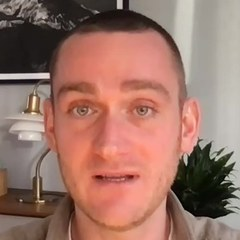
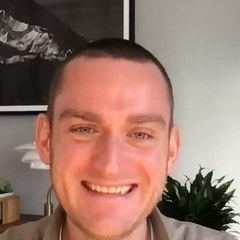
New Brandon photo with soft background, smiling Philip still, smaller play button in the on-the-fence row
Claude-Session: https://claude.ai/code/session_019JSQQoEFRUbrFzpqZ1j5LB

diff --git a/src/components/sections/MoreFromFounders.tsx b/src/components/sections/MoreFromFounders.tsx
@@ -1,6 +1,6 @@
 import { useState, useRef } from "react";
 import biancaCover from "@/assets/testimonials/bianca-polizzi-founder-polizzi-media.png";
-import brandonCover from "@/assets/testimonials/brandon-hadwin-founder-healingwithbrandon.png";
+import brandonCover from "@/assets/testimonials/brandon-cover.jpg";
 import jessicaCover from "@/assets/testimonials/jessica-rainey-founder-wildflower-woman.png";
 import sarahPhoto from "@/assets/testimonials/sarah-montgomery-founder-infyos.png";
 import rudiPhoto from "@/assets/testimonials/rudi-adigbli-founder-reethink.png";
@@ -18,9 +18,9 @@ export const videoCards = [
   { name: "Sabrina\nKennedy", company: "Singer, songwriter and actress", localVideo: "/videos/sabrina-testimonial-v2.mp4", poster: "/videos/sabrina-testimonial-poster.jpg", cover: sabrinaCover },
   { name: "Giacomo\nGallazzi", company: "Education podcast host", localVideo: "/videos/giacomo-testimonial-v2.mp4", poster: "/videos/giacomo-testimonial-poster.jpg", cover: giacomoCover },
   { name: "Galeen\nMegerditchian", company: "Paid media and brand marketing manager, London", localVideo: "/videos/galeen-testimonial-v2.mp4", poster: "/videos/galeen-testimonial-v2-poster.jpg", cover: galeenCover },
-  { name: "Philip\nChristiansen", company: "Hypnotist, Copenhagen", localVideo: "/videos/philip-testimonial-v2.mp4", poster: "/videos/philip-testimonial-v2-poster.jpg", cover: philipCover },
+  { name: "Philip\nChristiansen", company: "Hypnotist, Copenhagen", localVideo: "/videos/philip-testimonial-v2.mp4", poster: "/videos/philip-testimonial-v3-poster.jpg", cover: philipCover },
   { name: "Bianca\nPolizzi", company: "Polizzi Media", localVideo: "/videos/bianca-testimonial.mp4", poster: "/videos/bianca-testimonial-poster.jpg", cover: biancaCover },
-  { name: "Brandon\nHadwin", company: "HealingwithBrandon", localVideo: "/videos/brandon-testimonial.mp4", poster: "/videos/brandon-testimonial-poster.jpg", cover: brandonCover },
+  { name: "Brandon\nHadwin", company: "HealingwithBrandon", localVideo: "/videos/brandon-testimonial.mp4", poster: "/videos/brandon-testimonial-v2-poster.jpg", cover: brandonCover },
   { name: "Jessica\nRainey", company: "Wildflower Woman", localVideo: "/videos/jessica-testimonial.mp4", poster: "/videos/jessica-testimonial-poster.jpg", cover: jessicaCover },
   { name: "Alexandra\nFeldman", company: "Of The Islands", localVideo: "/videos/alexandra-testimonial.mp4", poster: "/videos/alexandra-testimonial-poster.jpg", cover: alexandraCover },
 ];
@@ -76,7 +76,7 @@ const quoteCards = [
   },
 ];
 
-export const VideoCard = ({ name, company, vimeoId, localVideo, poster, cover }: { name: string; company: string; vimeoId?: string; localVideo?: string; poster?: string; cover: string }) => {
+export const VideoCard = ({ name, company, vimeoId, localVideo, poster, cover, compact = false }: { name: string; company: string; vimeoId?: string; localVideo?: string; poster?: string; cover: string; compact?: boolean }) => {
   const [playing, setPlaying] = useState(false);
   const videoRef = useRef<HTMLVideoElement>(null);
 
@@ -124,7 +124,7 @@ export const VideoCard = ({ name, company, vimeoId, localVideo, poster, cover }:
           </div>
           {/* Large centered Monad-style play button */}
           <div className="absolute inset-0 z-[3] flex items-center justify-center pointer-events-none">
-            <div className="relative w-20 h-20 md:w-24 md:h-24 transition-transform duration-300 group-hover:scale-110">
+            <div className={`relative ${compact ? "w-14 h-14 md:w-16 md:h-16" : "w-20 h-20 md:w-24 md:h-24"} transition-transform duration-300 group-hover:scale-110`}>
               <svg viewBox="0 0 120 120" className="w-full h-full" aria-hidden="true">
                 <circle cx="60" cy="60" r="50" fill="rgba(255,255,255,0.18)" stroke="white" strokeWidth="3.5" />
                 <polygon points="50,42 82,60 50,78" fill="white" />

diff --git a/src/pages/Apply.tsx b/src/pages/Apply.tsx
@@ -8,7 +8,7 @@ import { Textarea } from "@/components/ui/textarea";
 import usePageMeta from "@/hooks/usePageMeta";
 import { supabase } from "@/integrations/supabase/client";
 import type { TablesInsert } from "@/integrations/supabase/types";
-import brandonPhoto from "@/assets/testimonials/brandon-hadwin-founder-healingwithbrandon.png";
+import brandonPhoto from "@/assets/testimonials/brandon-cover.jpg";
 import alexandraPhoto from "@/assets/testimonials/alexandra-feldman-founder-of-the-islands.png";
 import biancaPhoto from "@/assets/testimonials/bianca-polizzi-founder-polizzi-media.png";
 import jessicaPhoto from "@/assets/testimonials/jessica-rainey-founder-wildflower-woman.png";
@@ -118,7 +118,7 @@ function ItemList({ items, positive, negativeRed = false }: { items: string[]; p
 const videoStories = cases.filter((story) => story.photo);
 const textStories = cases.filter((story) => !story.photo);
 const testimonialVideos: Record<string, { src: string; poster: string }> = {
-  "Brandon Hadwin": { src: "/videos/brandon-testimonial.mp4", poster: "/videos/brandon-testimonial-poster.jpg" },
+  "Brandon Hadwin": { src: "/videos/brandon-testimonial.mp4", poster: "/videos/brandon-testimonial-v2-poster.jpg" },
   "Alexandra Feldman": { src: "/videos/alexandra-testimonial.mp4", poster: "/videos/alexandra-testimonial-poster.jpg" },
   "Jessica Rainey": { src: "/videos/jessica-testimonial.mp4", poster: "/videos/jessica-testimonial-poster.jpg" },
 };

diff --git a/src/components/sections/Hero.tsx b/src/components/sections/Hero.tsx
@@ -1,6 +1,6 @@
 import rudiAvatar from "@/assets/testimonials/rudi-adigbli-founder-reethink.png";
 import jessicaAvatar from "@/assets/testimonials/jessica-rainey-founder-wildflower-woman.png";
-import brandonAvatar from "@/assets/testimonials/brandon-hadwin-founder-healingwithbrandon.png";
+import brandonAvatar from "@/assets/testimonials/brandon-cover.jpg";
 import ellaAvatar from "@/assets/testimonials/ella-cane-founder.png";
 import alexandraAvatar from "@/assets/testimonials/alexandra-feldman-founder-of-the-islands.png";
 import AnimatedFounderCount from "@/components/AnimatedFounderCount";

diff --git a/src/pages/About.tsx b/src/pages/About.tsx
@@ -10,7 +10,7 @@ import {
   CarouselNext,
   CarouselPrevious,
 } from "@/components/ui/carousel";
-import brandonCover from "@/assets/testimonials/brandon-hadwin-founder-healingwithbrandon.png";
+import brandonCover from "@/assets/testimonials/brandon-cover.jpg";
 import jessicaCover from "@/assets/testimonials/jessica-rainey-founder-wildflower-woman.png";
 import backstoryPhoto from "@/assets/backstory-sidsel.jpg";
 import LineageSection from "@/components/sections/about/LineageSection";

diff --git a/src/components/sections/OnTheFence.tsx b/src/components/sections/OnTheFence.tsx
@@ -23,7 +23,7 @@ const OnTheFence = () => (
       </p>
       <div className="mt-12 grid grid-cols-1 sm:grid-cols-2 lg:grid-cols-4 gap-[18px]">
         {fenceCards.map((c) => (
-          <VideoCard key={c.localVideo} {...c} />
+          <VideoCard key={c.localVideo} {...c} compact />
         ))}
       </div>
     </div>
